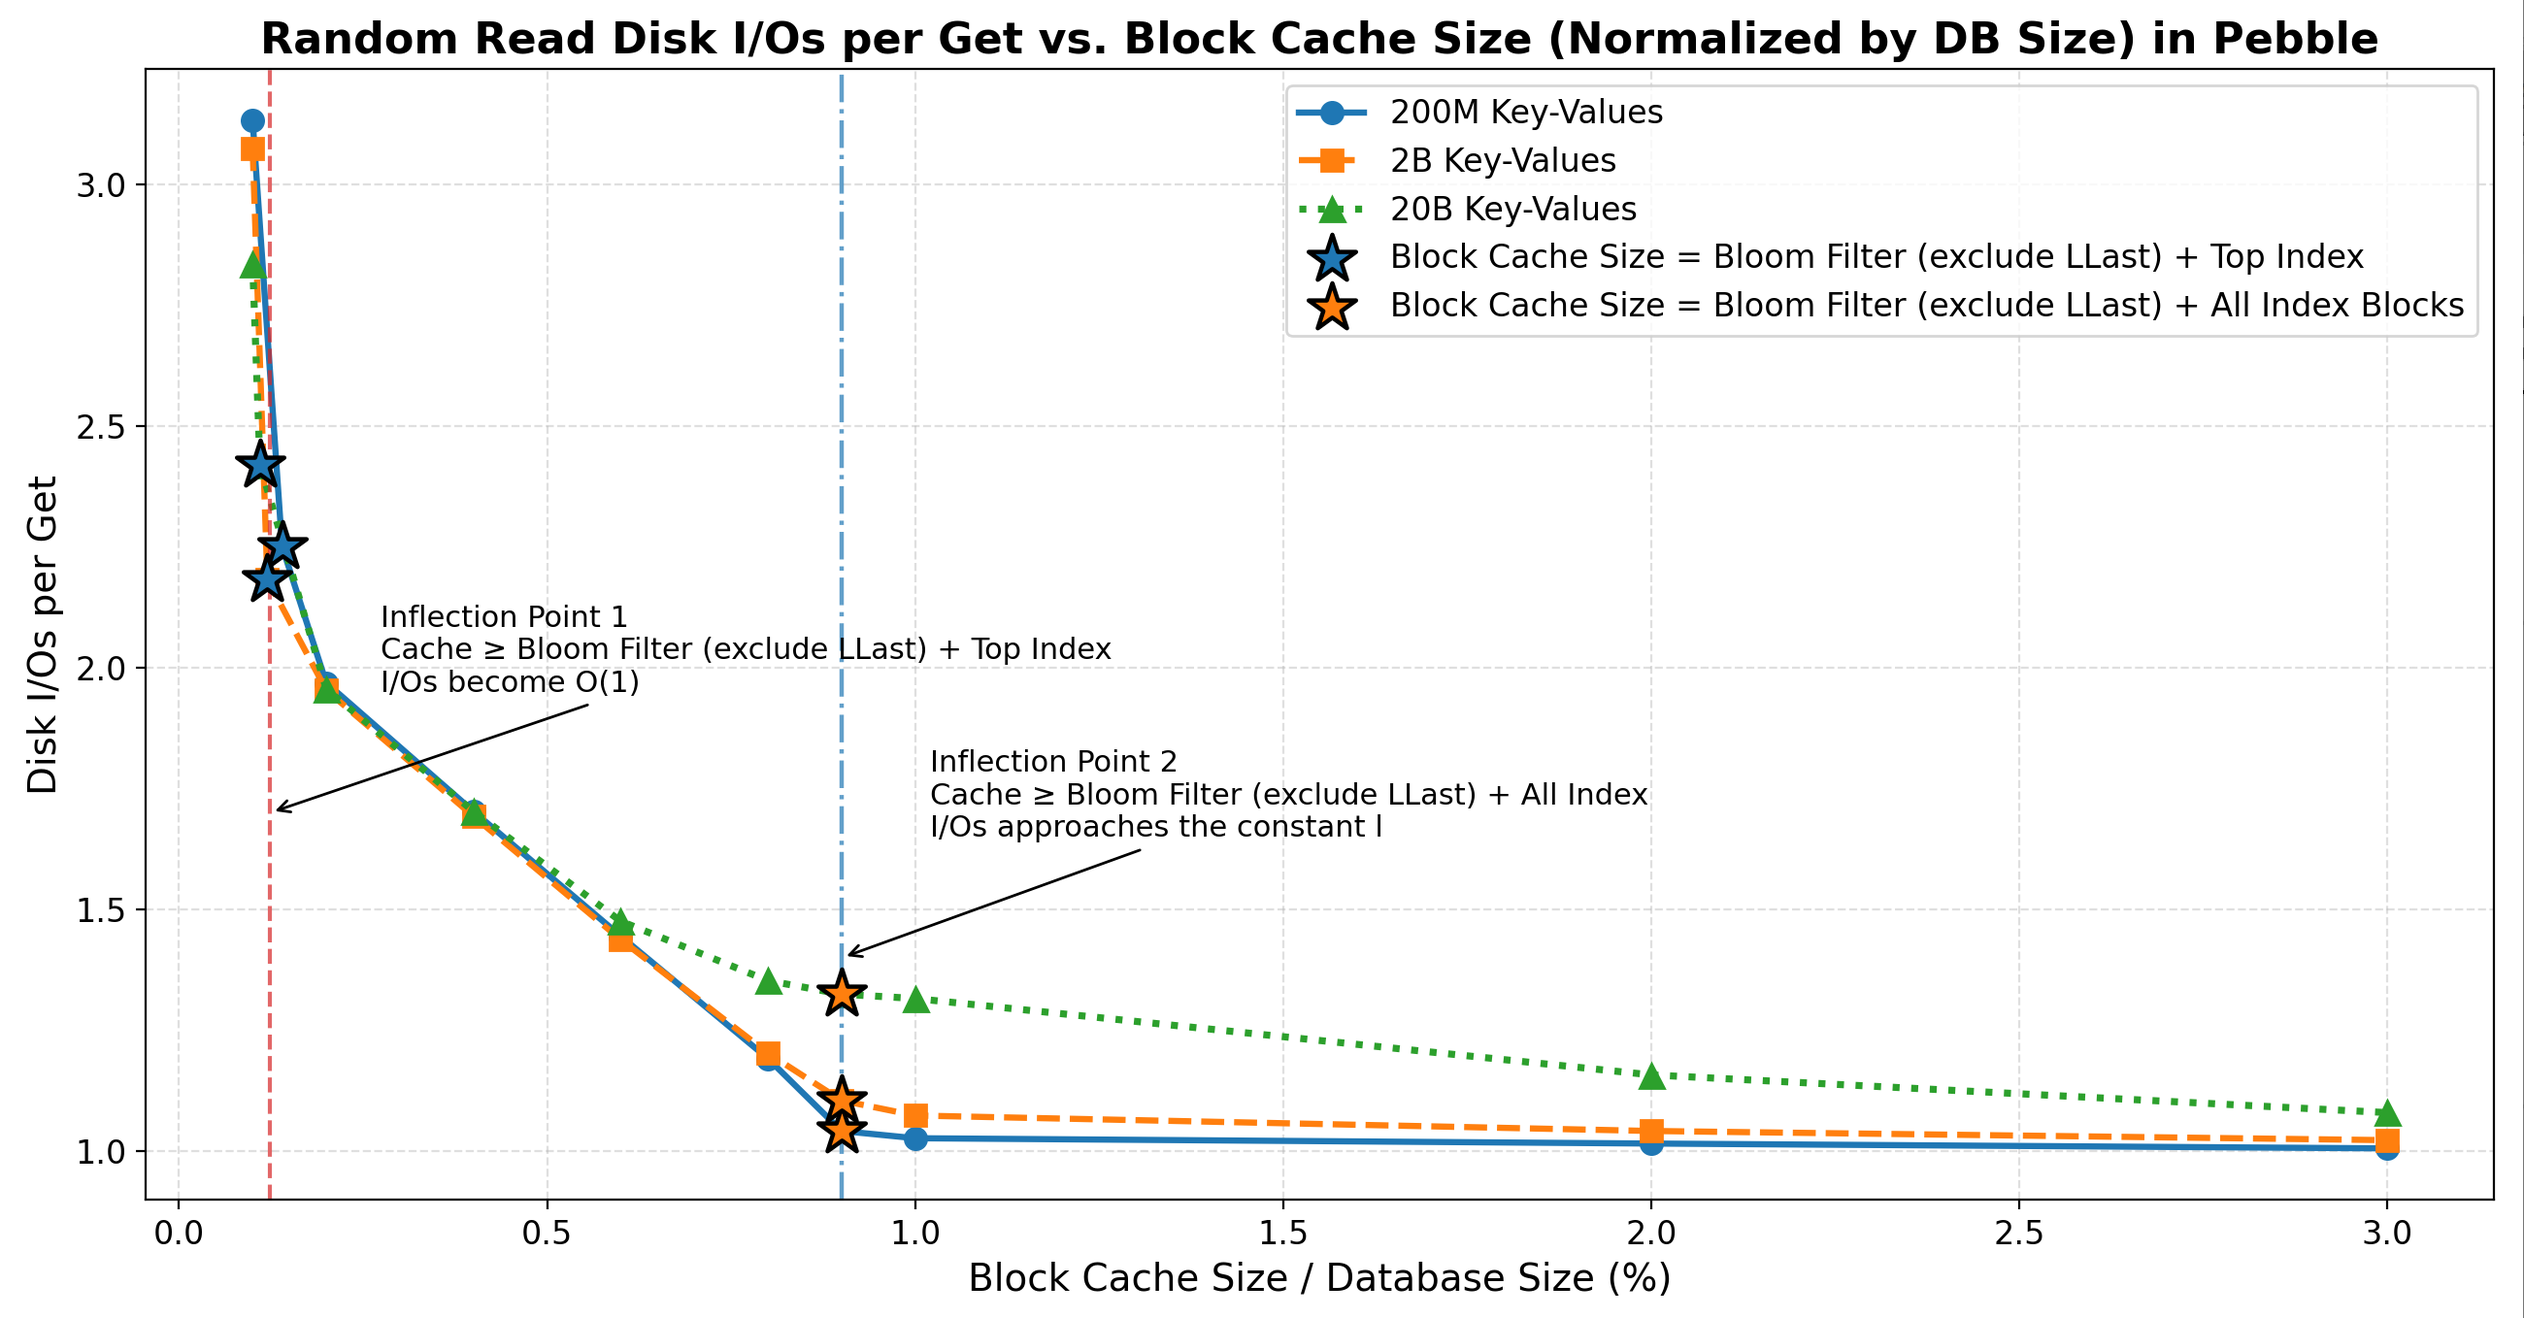
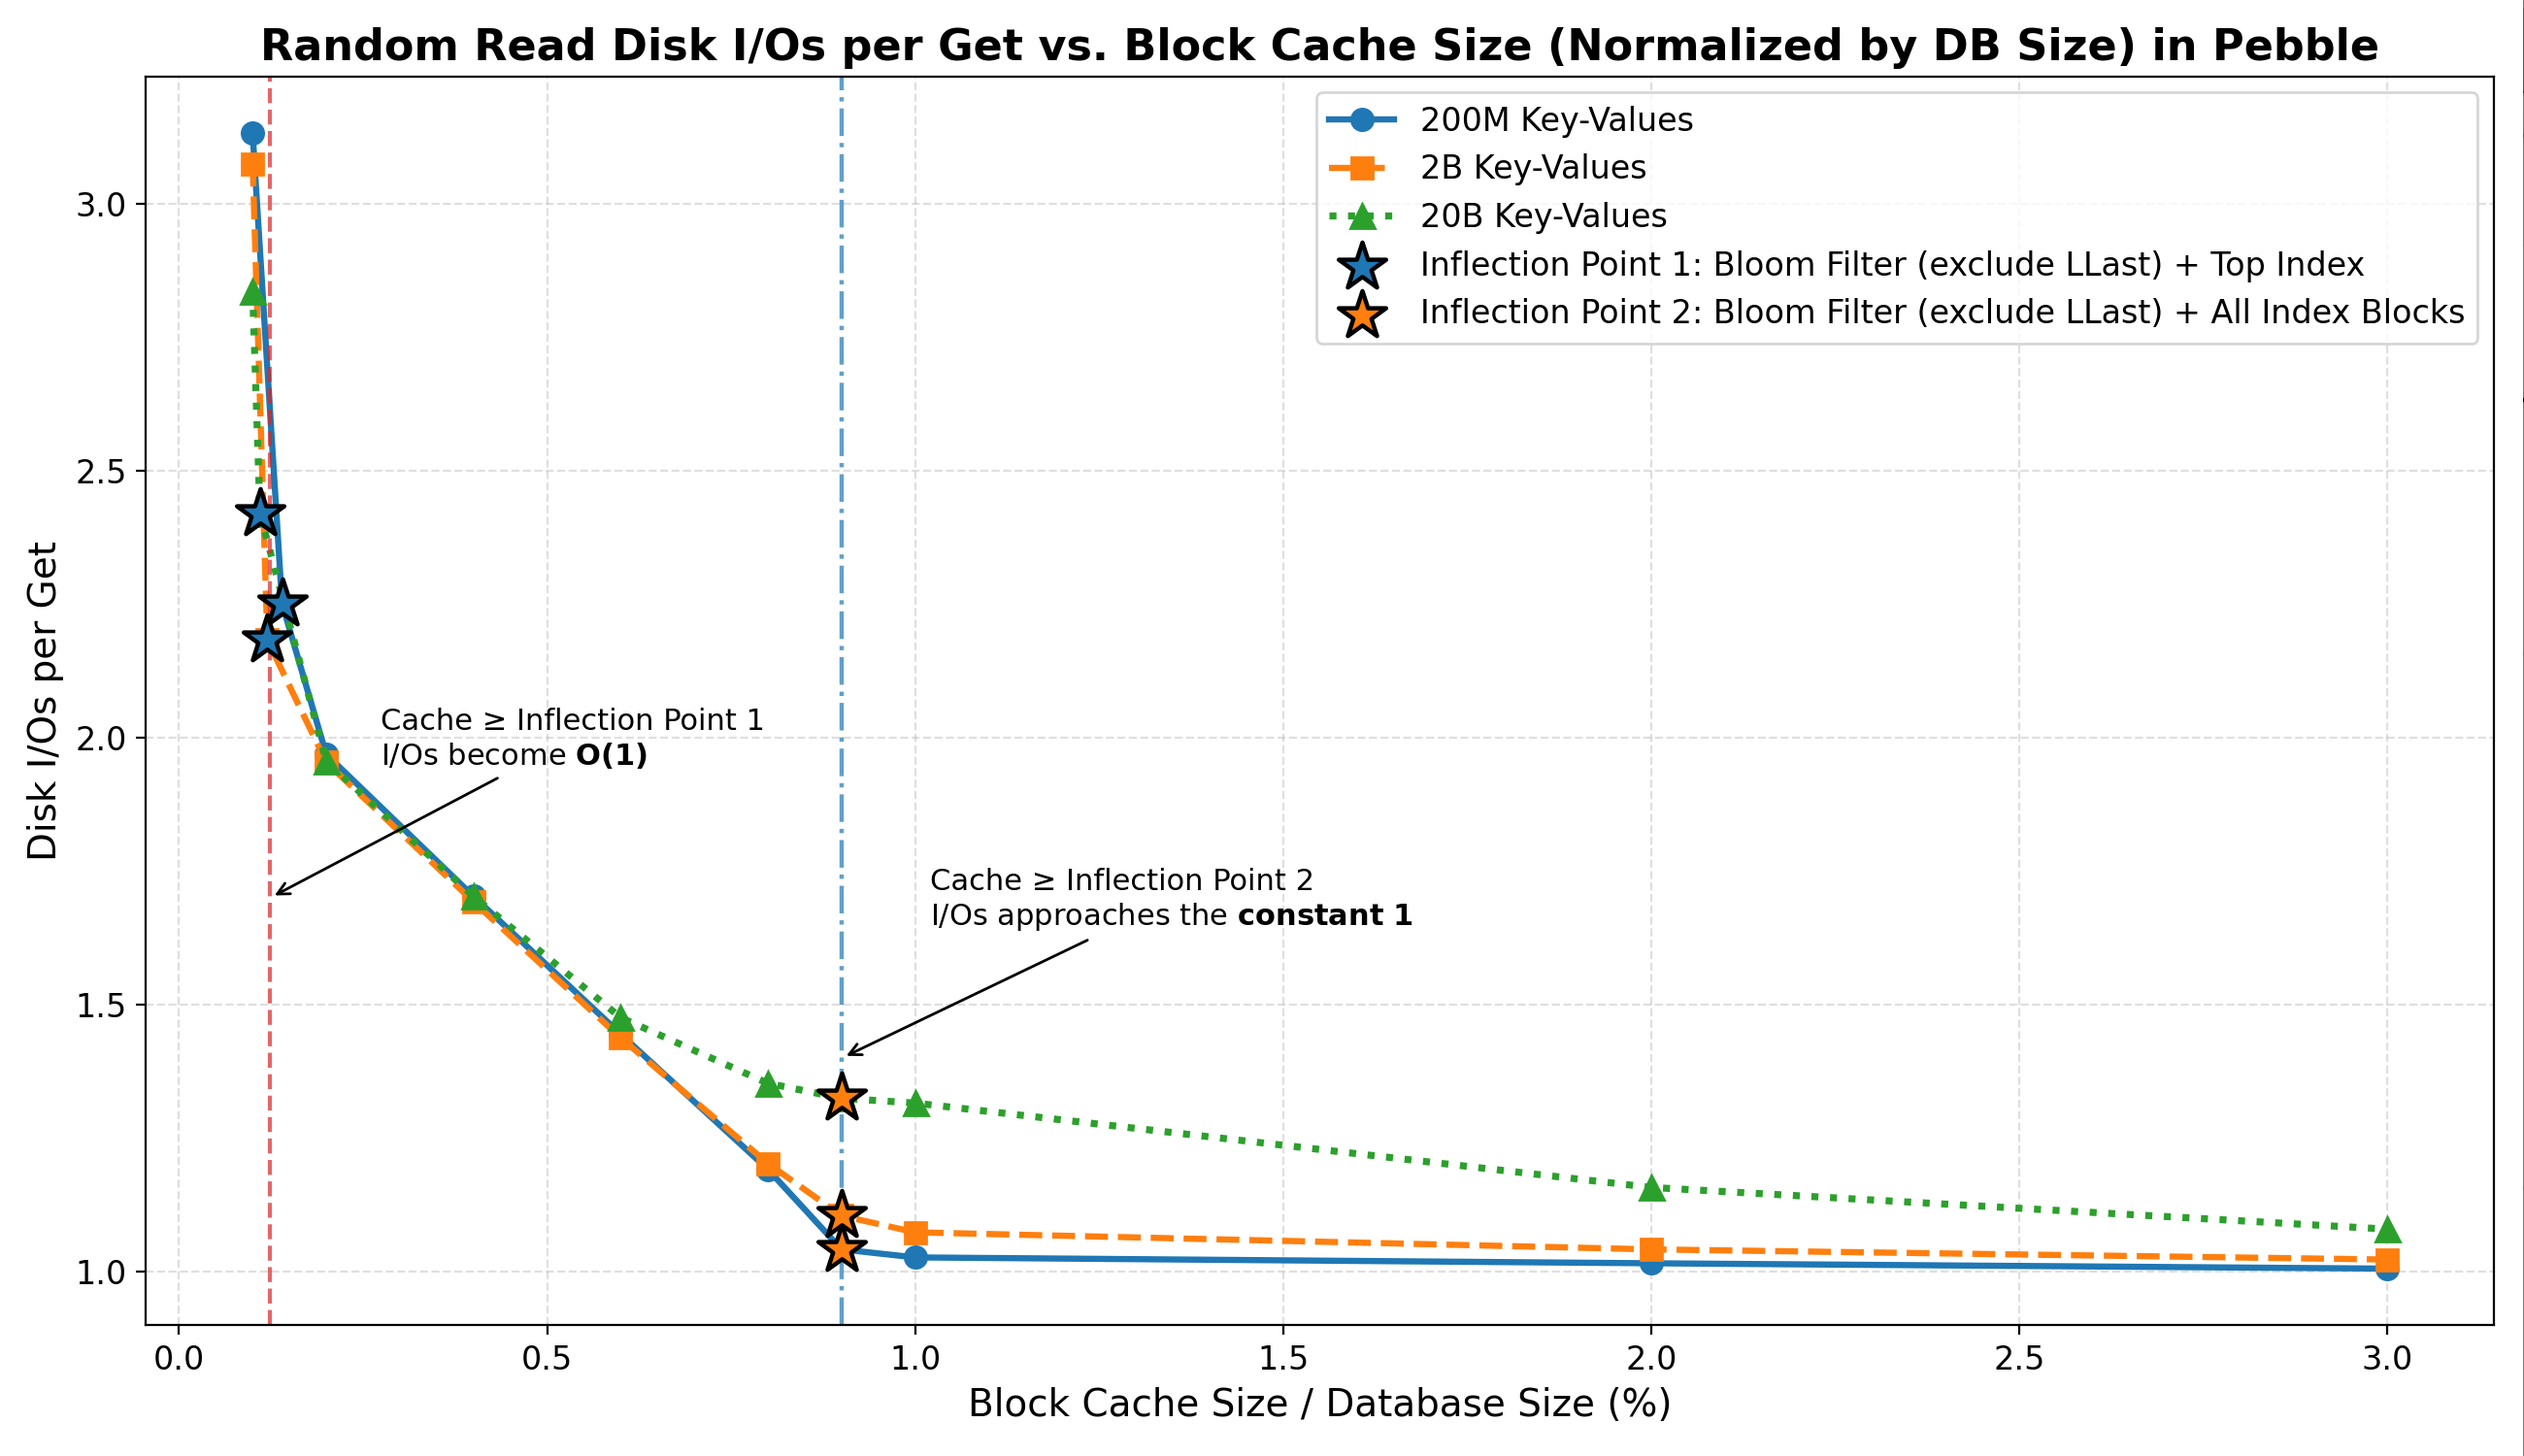
resolve comments

diff --git a/doc/paper.md b/doc/paper.md
@@ -54,6 +54,14 @@ for trie databases and execution-layer storage in blockchain systems.
 
 ## How We Validated the Hypothesis
 
+This section describes how we validate our hypothesis that, under realistic caching conditions,
+Pebble’s practical read I/O cost is primarily governed by the cache residency of metadata
+rather than by LSM-tree depth as suggested by worst-case O(log N) models.
+We first examine Pebble’s read path to identify the concrete sources of I/O,
+then introduce two cache-driven inflection points that characterize changes in read behavior.
+Finally, we outline the experimental setup used to observe these phases empirically
+and quantify their impact on **I/Os per Get**.
+
 ### Understanding Pebble 
 
 #### Pebble Read Path and I/O Sources
@@ -63,33 +71,30 @@ A `Get` operation in Pebble proceeds as follows:
 1. Lookup MemTable / Immutable MemTables and return value if found (in memory)
 2. Lookup MANIFEST to find candidate SST files (in memory)
 3. For each SST:
-   a) Load Top-level index at init → local index block after filter check
+   a) Load Top-level index at reader initialization (used to locate index blocks after filter check)
    b) Table-level Bloom filter check (except LLast) → skip SST if key absent
    c) Index block lookup → locate data block
    d) Data block lookup → read value and return
 ```
+
+The read path above references several internal components that appear
+throughout this paper. We briefly introduce them here for clarity.
 
 ##### **Top-level index**  
 A tiny per-SST top-level index pointing to internal index blocks (“Index blocks”).  
 It is touched on almost every lookup and typically remains fully cached.
 
 ##### **LLast**  
-The deepest level of the LSM tree.  
-It stores most of the data and **does not use Bloom filters** during lookups.  
-Thus lookups that reach LLast follow the full path:  
-**Top-level index → index block → data block**.
+The deepest level of the LSM tree. It stores most of the data and **does not use Bloom filters** during lookups.  
+Thus lookups that reach LLast follow the full path: **Top-level index → index block → data block**.
 
-#### **Why filters exclude LLast**  
+##### **Why filters exclude LLast**  
 Bloom filters for LLast would be prohibitively large, expensive to keep hot in cache, and provide limited benefit in practice
 because most positive lookups ultimately probe LLast regardless. Pebble therefore does **not** consult Bloom filters for LLast.  
 
-**With these filters cached:**
-- Most negative lookups are eliminated before touching LLast.
-- Most positive lookups require only **1–2 data-block reads** once index blocks are cached.
-
 ---
 
-### Two Practical Cache Thresholds ("Inflection Points") 
+### Two Practical Cache Inflection Points
 
 Pebble’s read I/O behavior is driven by whether the cache can hold specific metadata components.
 
@@ -112,17 +117,20 @@ Cache can hold:
 
 ---
 
-### Three Phases of I/O Behavior
+### Three Cache-Driven Phases of Read I/O Behavior
+
+Based on the two cache inflection points defined above, we partition the cache
+space into three phases and describe the expected read I/O behavior in each.
 
 - **Phase 1 — `Cache < Inflection Point 1`**  
-  Filter and Top-Index misses are common → many unnecessary SST checks → higher I/O.
+  Filter and Top-Index misses are frequent → many unnecessary SST checks → **higher expected read I/O cost**.
 
 - **Phase 2 — `Inflection Point 1 < Cache < Inflection Point 2`**  
-  Filters + Top-Index are cached → negative lookups become nearly free → rapid drop in I/O as index blocks begin to cache.
+  Filters and Top-Index are cached → negative lookups are largely resolved in memory → read I/O is **expected to decrease** as index blocks begin to reside in cache.
 
 - **Phase 3 — `Cache > Inflection Point 2`**  
-  All index blocks are cached → remaining I/O comes mainly from data blocks → diminishing returns beyond this point.
-
+  Filters and all index blocks are cached → remaining I/O is **expected to come primarily from data blocks** → diminishing returns beyond this point.
+  
 ---
 
 ### Experimental Setup
@@ -158,7 +166,7 @@ Value: 110 bytes (approximately the average RLP size of geth trie nodes)
 - No concurrent heavy writes or compactions
 
 #### Metric
-We directly use Pebble’s internal counters:
+We rely on Pebble’s internal statistics to characterize read behavior, including:
 - Bloom filter hit rate
 - Top Index hit rate
 - Index block hit rate
@@ -166,15 +174,19 @@ We directly use Pebble’s internal counters:
 - Overall block cache hit rate
 - **I/Os per Get — the final target metric**
 
+In Pebble, all block reads (filter, Top-Index, index, and data blocks) during a `Get` operation
+are routed through the BlockCache.
+Every lookup first consults the cache, and a cache miss typically results in a single underlying physical read
+under minimal readahead and compaction interference.
+
 $$
 \text{I/Os per Get} \approx \frac{\text{BlockCacheMiss}}{\text{GetCount}}
 $$
 
-This approximation holds in steady state because Pebble routes **all** block reads (filter, Top-Index, index, and data blocks) through the BlockCache. 
-Every lookup first consults the cache, and **a cache miss typically results in a single underlying physical read** 
-in steady state, **with minimal readahead and compaction interference**.
+where **BlockCacheMiss** is the total number of block-cache misses across all block types
+(Bloom filters, Top-Index blocks, index blocks, and data blocks),
+and **GetCount** is the number of completed `Get` operations measured.
 
-With sufficient warm-up, most SST files are already resident in TableCache, and OS page-cache effects are minimized. 
 As a result, `BlockCacheMiss` closely tracks the practical physical read pressure and provides a stable,
 implementation-aligned measure of per-lookup I/O cost.
 
@@ -194,7 +206,7 @@ We first analyze how cache size affects the hit rates of Bloom filters, Top-Inde
 We then show how these effects translate into overall block cache hit rate and, ultimately, the **I/Os per Get** metric.
 
 ### Bloom Filter & Top Index Hit Rate
-| CacheSize                    | Small (Filter) | Medium (Filter) | Large (Filter) | Small (TopIdx) | Medium (TopIdx) | Large (TopIdx) |
+| CacheSize                    | Small Dataset<br>(Filter Hit Rate) | Medium Dataset<br>(Filter Hit Rate) | Large Dataset<br>(Filter Hit Rate) | Small Dataset<br>(Top Index Hit Rate) | Medium Dataset<br>(Top Index Hit Rate) | Large Dataset<br>(Top Index Hit Rate) |
 |------------------------------|----------------|-----------------|----------------|----------------|-----------------|----------------|
 | **Inflection Point 1 (IP1)** | 98.5%          | 99.6%           | 98.9%          | 96.4%          | 97.8%           | 95.4%          |
 | **Beyond IP1 (≈0.2% DB)**    | 100%           | 100%            | 100%           | 100%           | 100%            | 100%           |
@@ -205,31 +217,22 @@ Once the cache exceeds **Inflection Point 1**, both the Bloom filter and Top Ind
 
 ### Index Block Hit Rate
 
-| CacheSize                    | Small Dataset | Medium Dataset | Large Dataset |
-|------------------------------|---------------|----------------|---------------|
-| **Inflection Point 1 (IP1)** | 2.1%          | 1.5%           | 2.9%          |
-| **Beyond IP1 (≈0.2% DB)**    | 9.1%          | 11.8%          | 13.7%         |
-| **Inflection Point 2 (IP2)** | 98.2%         | 93.1%          | 72.6%         |
-| **Beyond IP2 (≈1% DB)**      | 99.6%         | 95.8%          | 73.4%         |
-
 ![trend-index-hit-rate.png](./images/trend-index-hit-rate.png)
 
 1. **Phase 1:** Very few index blocks cached (may **~1%–3%**).
 2. **Phase 2:** Index hit **rises sharply** to ~70–99% as the cache approaches **Inflection Point 2**.
 3. **Phase 3:** Most index blocks reside in memory, and the hit rate reaches a **high plateau (~70%–99%)** with only marginal further gains.
 
-This is the main driver of I/O reduction after **At Inflection Point 1**.
-
 ---
 
 ### Data Block Hit Rate
 
-| CacheSize                    | Small Dataset | Medium Dataset | Large Dataset |
+| CacheSize                    | Small Dataset<br>(Data Block Hit Rate) | Medium Dataset<br>(Data Block Hit Rate) | Large Dataset<br>(Data Block Hit Rate) |
 |------------------------------|---------------|----------------|---------------|
 | **Inflection Point 1 (IP1)** | 1.0%          | 0.7%           | 1.3%          |
 | **Beyond IP1 (≈0.2% DB)**    | 1.2%          | 0.9%           | 1.6%          |
 | **Inflection Point 2 (IP2)** | 1.4%          | 1.1%           | 2.4%          |
-| **Beyond IP2 (≈1% DB)**      | 1.5%          | 1.2%           | 2.4%          |
+| **Beyond IP2 (≈3% DB)**      | 3.2%          | 3.0%           | 4.3%          |
 
 Across all three phases, data block hit rate remains consistently low,
 **data block caching contributes little to the observed I/O reduction** in random-read workloads.
@@ -237,13 +240,6 @@ Across all three phases, data block hit rate remains consistently low,
 ---
 
 ### Overall Block Cache Hit Rate
-
-| CacheSize                    | Small Dataset | Medium Dataset | Large Dataset |
-|------------------------------|---------------|----------------|---------------|
-| **Inflection Point 1 (IP1)** | 77.3%         | 79.6%          | 82.5%         |
-| **Beyond IP1 (≈0.2% DB)**    | 80.1%         | 81.7%          | 85.8%         |
-| **Inflection Point 2 (IP2)** | 89.5%         | 89.7%          | 90.4%         |
-| **Beyond IP2 (≈1% DB)**      | 89.6%         | 90.0%          | 90.5%         |
 
 ![trend-blockcache-hit-rate.png](./images/trend-blockcache-hit-rate.png)
 
@@ -254,17 +250,10 @@ Across all three phases, data block hit rate remains consistently low,
 ---
 
 ### Read I/O Cost per Get (Key Result)
-
-| CacheSize                    | Small Dataset | Medium Dataset | Large Dataset |
-|------------------------------|---------------|----------------|---------------|
-| **Inflection Point 1 (IP1)** | 2.25          | 2.18           | 2.42          |
-| **Beyond IP1 (≈0.2% DB)**    | 1.97          | 1.95           | 1.96          |
-| **Inflection Point 2 (IP2)** | 1.04          | 1.10           | 1.33          |
-| **Beyond IP2 (≈1% DB)**      | 1.03          | 1.07           | 1.31          |
+This section summarizes how the cache residency of different metadata components
+ultimately translates into end-to-end random-read I/O cost.
 
 ![trend-io-per-get.png](./images/trend-io-per-get.png)
-
-### Key Observations
 
 - **Inflection Point 1 (`Filter + Top-Index`)**  
   Once the cache reaches this point:
@@ -290,7 +279,7 @@ This confirms:
 ## Conclusion & Recommendations
 
 ### Conclusion: Pebble Achieves Effectively O(1) Disk I/O Under Sufficient Cache
-Although the theoretical read complexity of Pebble is `O(log N)`,
+Although the theoretical worst-case read complexity of Pebble is `O(log N)`,
 this bound is rarely observable in practice under realistic cache configurations.
 
 > With sufficient cache residency of Bloom filters and index blocks, the practical read I/O behavior of Pebble is 
@@ -300,17 +289,22 @@ this bound is rarely observable in practice under realistic cache configurations
 
 ### Cache Configuration Recommendations
 
-1. Don’t model KV lookups as `O(log N)` I/Os.
-This is a theoretical worst case and does not reflect real LSM behavior.
+Our results show that Pebble’s read I/O cost is governed primarily by
+**which metadata components fit in cache**, rather than by LSM-tree depth.
+In practice, cache sizing can therefore be chosen directly based on the
+desired read performance.
 
-2. Minimum cache for near-constant read performance  
-Cache Bloom filters + Top-Index.
-This removes almost all negative-lookup I/O and brings I/Os per Get to ~2.
+- **Near-constant read performance (~2 I/Os per Get)**  
+  Cache beyond **Inflection Point 1** (Bloom filters excluding LLast + Top-Index blocks).  
+  This requires only a **tiny cache** (typically **< 0.2% of DB size**) and removes most negative-lookup I/O.  
+  *Suitable for memory-constrained deployments requiring predictable read performance.*
 
-3. Optimal cache for near–single-I/O reads  
-Cache Bloom filters + all index blocks.
-I/Os per Get converges to ~1.0–1.3.
+- **Near–single-I/O reads (~1.0–1.3 I/Os per Get)**  
+  Cache beyond **Inflection Point 2** (Bloom filters + all index blocks).  
+  This requires a **small cache** (typically **< 1.5% of DB size**) and brings reads close to the practical lower bound.  
+  *Suitable for latency-critical execution layers and read-intensive workloads.*
 
-4. Data block caching is optional for random-read I/O optimization.
+Beyond **Inflection Point 2**, further increasing cache size provides **only marginal
+additional I/O reduction** under random-read workloads.
 
 ---
